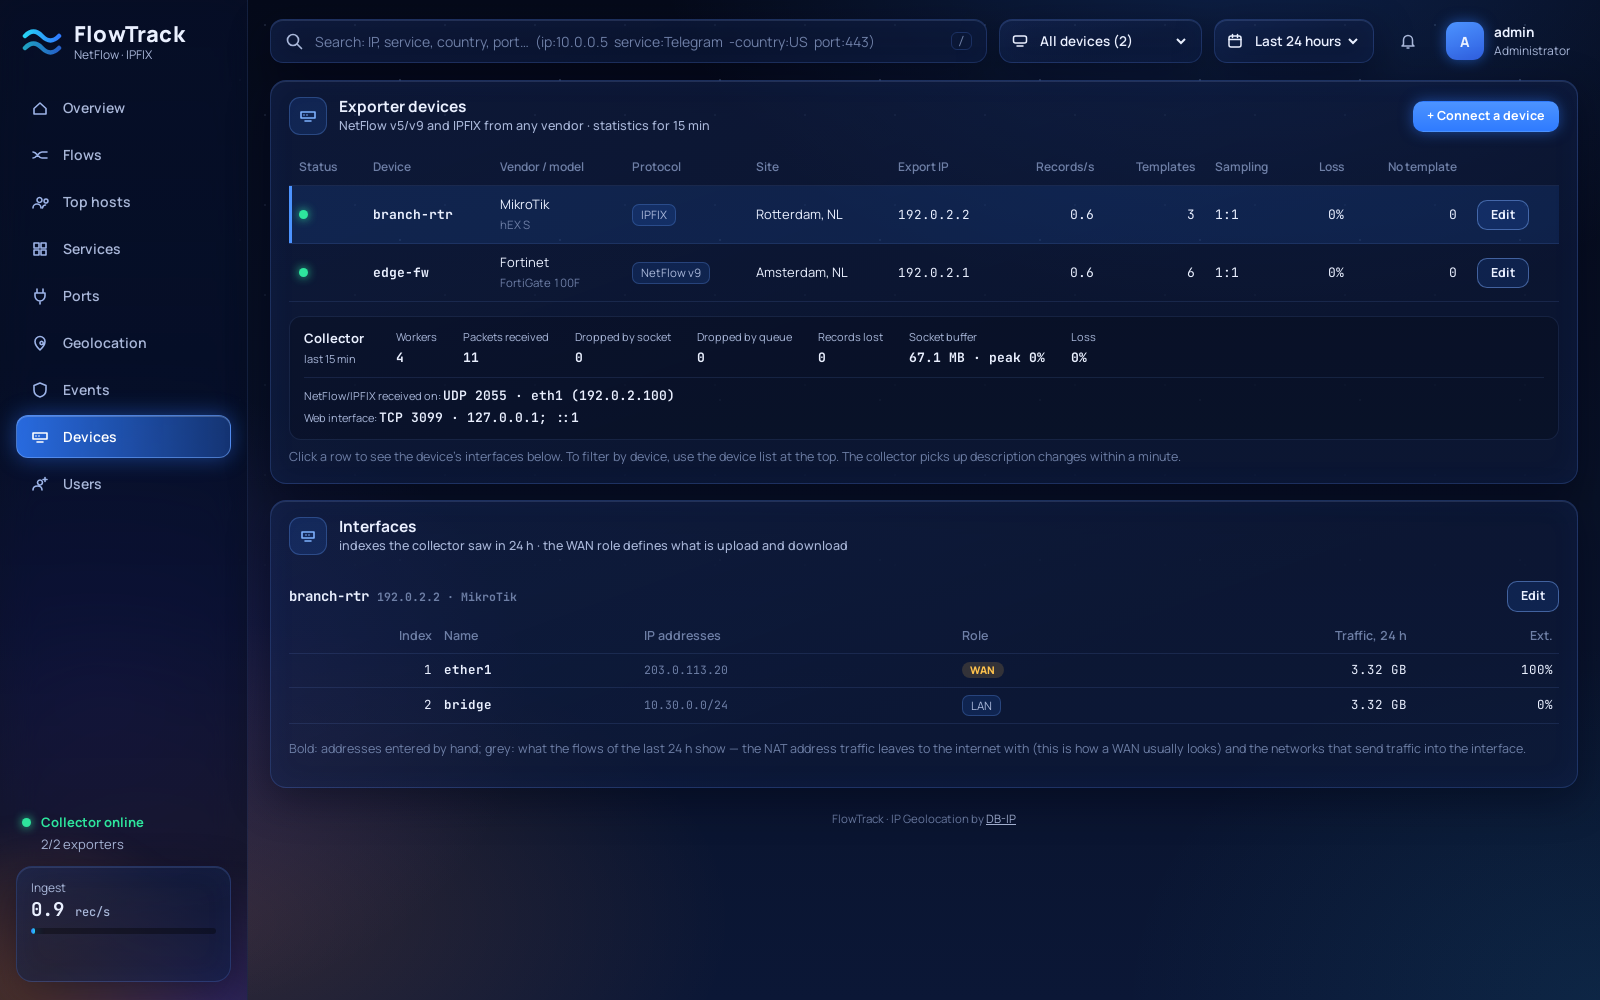
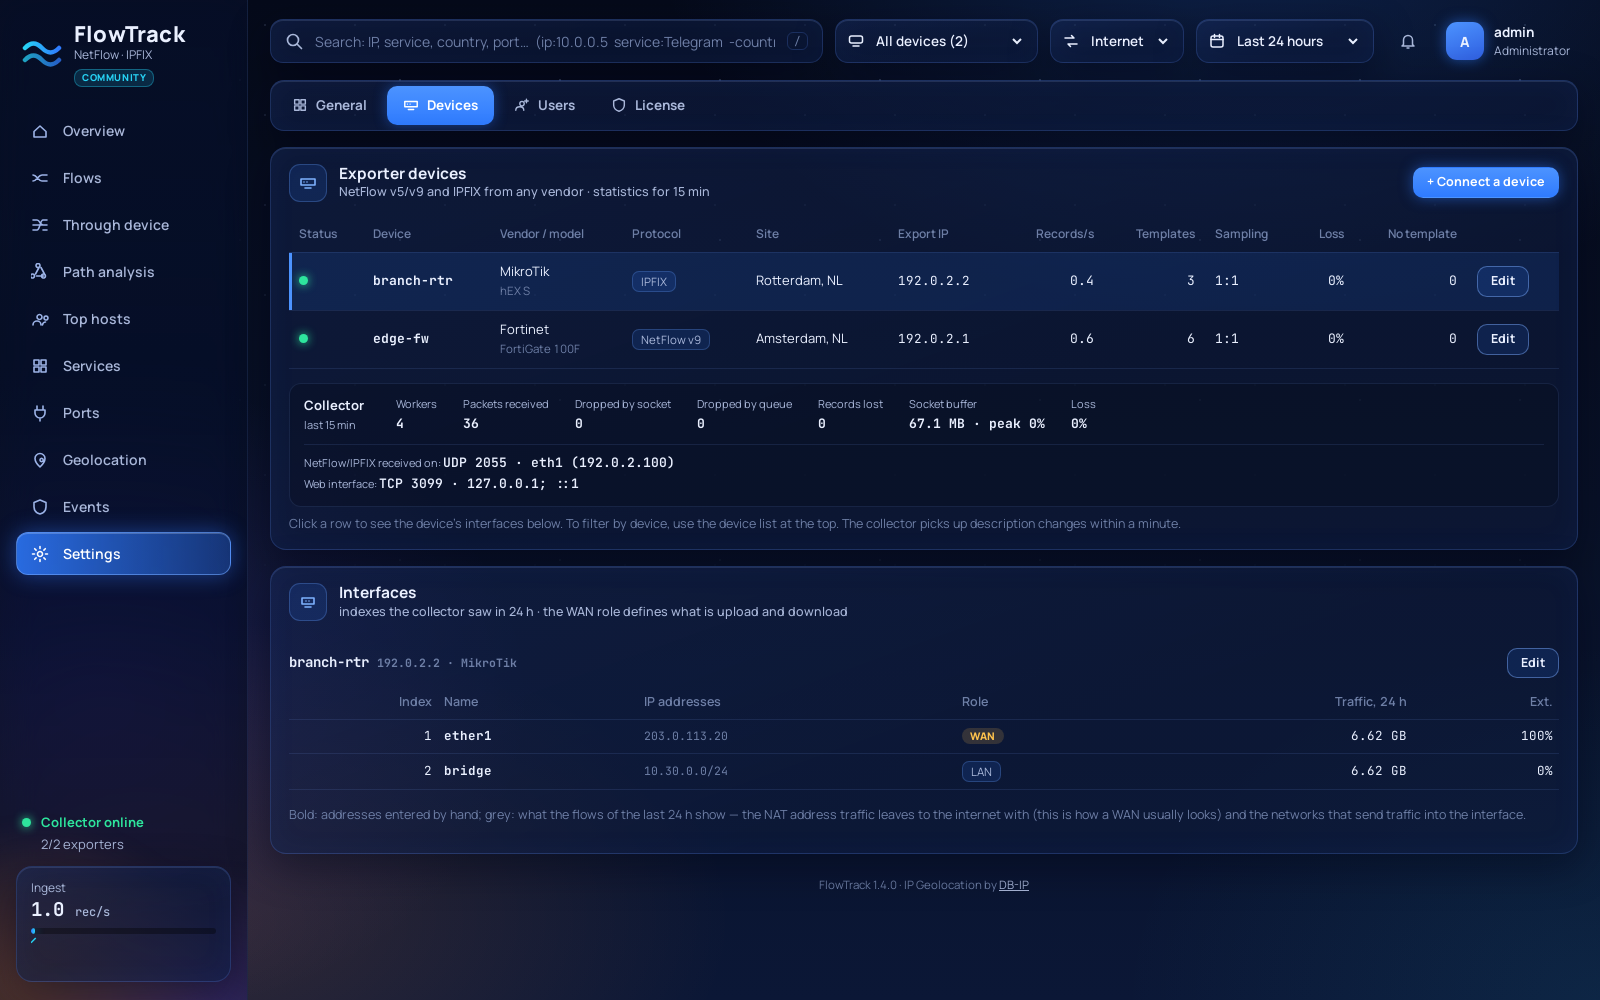
README: screenshots retaken from the demo data (1.4.0 UI), Through device and Services added

diff --git a/README.md b/README.md
@@ -18,8 +18,9 @@ exporters ── UDP 2055 ──▶ collector ──▶ ClickHouse ◀── API
 
 | | |
 |---|---|
-| ![Flows](docs/screenshots/flows.png) **Flows** — who exchanges how much with whom; click to filter | ![Top hosts](docs/screenshots/hosts.png) **Top hosts** — volume, trend, services and destinations |
-| ![Geolocation](docs/screenshots/geo.png) **Geolocation** — live connection map, countries, ASNs | ![Devices](docs/screenshots/devices.png) **Devices** — exporters, interfaces, collector health |
+| ![Flows](docs/screenshots/flows.png) **Flows** — who exchanges how much with whom; click to filter | ![Through device](docs/screenshots/through-device.png) **Through device** — input interface → device → output interface, hosts behind each |
+| ![Top hosts](docs/screenshots/hosts.png) **Top hosts** — volume, trend, services and destinations | ![Geolocation](docs/screenshots/geo.png) **Geolocation** — live connection map, countries, ASNs |
+| ![Services](docs/screenshots/services.png) **Services** — traffic by service and application, trends | ![Devices](docs/screenshots/devices.png) **Devices** — exporters, interfaces, collector health |
 
 ![Path analysis](docs/screenshots/path-analysis.png)
 **Path analysis** — layer-3 neighbours of a device and the hops of a source → destination path across devices
